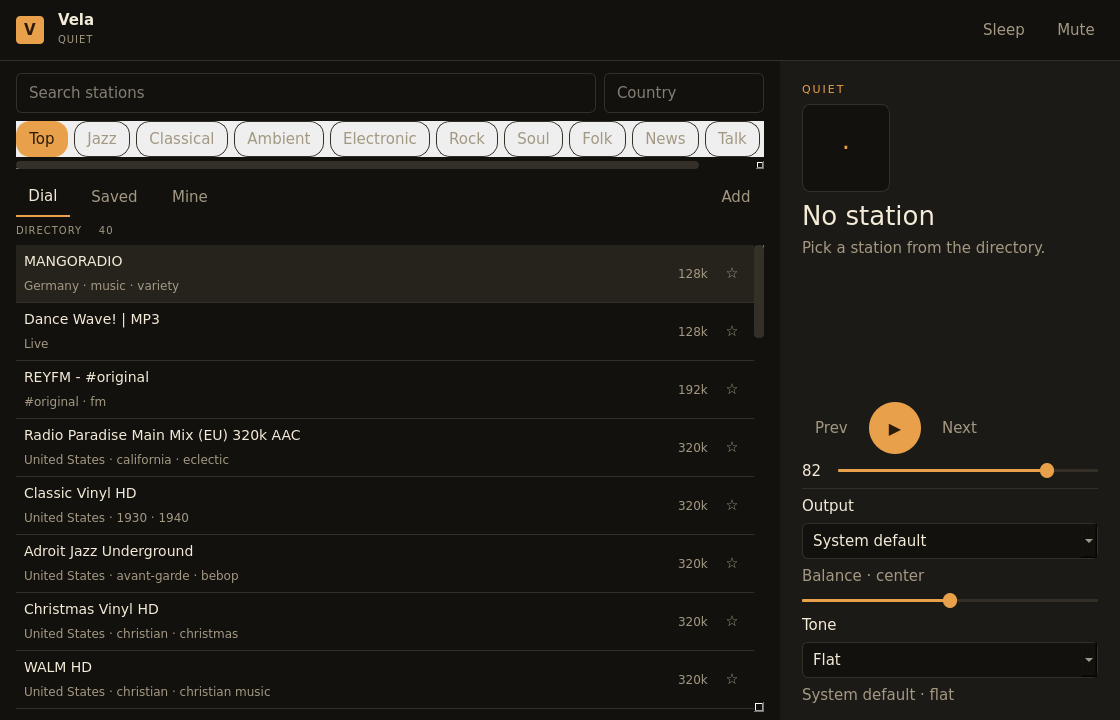
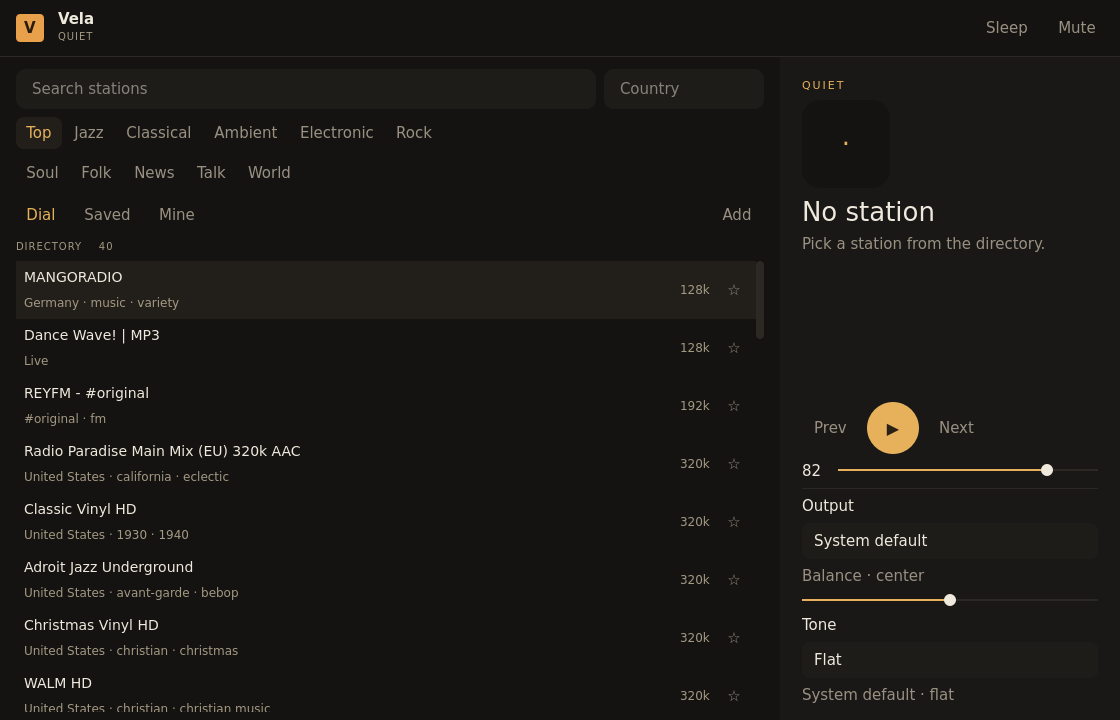
Quiet the station filters so the window stays one dark surface.

diff --git a/linux/vela/gui.py b/linux/vela/gui.py
@@ -27,55 +27,66 @@ EQS = (("flat", "Flat"), ("voice", "Voice"), ("night", "Night"), ("bass", "Bass"
 SLEEP = (0, 15, 30, 45, 60, 90)
 
 QSS = """
-QMainWindow, QWidget#app { background: #12110e; color: #f3ead7; }
-QWidget#stage { background: #1c1a16; }
-QLabel, QListWidget, QScrollArea { background: transparent; color: #f3ead7; }
-QFrame#line { background: #343027; max-height: 1px; min-height: 1px; border: none; }
+QMainWindow, QWidget#app { background: #141311; color: #efe8dc; }
+QWidget#stage { background: #191816; }
+QLabel, QListWidget { background: transparent; color: #efe8dc; }
+QFrame#line { background: #2c2924; max-height: 1px; min-height: 1px; border: none; }
 QLineEdit {
-  background: #12110e; color: #f3ead7; border: 1px solid #343027;
-  border-radius: 6px; padding: 8px 10px; min-height: 22px;
-  selection-background-color: #e8a04a; selection-color: #2a1c0a;
+  background: #1e1c19; color: #efe8dc; border: none; border-radius: 10px;
+  padding: 10px 14px; min-height: 20px;
+  selection-background-color: #3a342c; selection-color: #efe8dc;
 }
-QLineEdit:focus { border-color: #e8a04a; }
+QLineEdit:focus { background: #24211d; }
 QListWidget { border: none; outline: none; }
-QListWidget::item { border-bottom: 1px solid #343027; }
-QListWidget::item:selected { background: #26231d; }
+QListWidget::item { border: none; }
+QListWidget::item:selected { background: #221f1b; }
 QPushButton {
-  background: transparent; color: #a39882; border: 1px solid transparent;
-  border-radius: 6px; padding: 8px 12px; min-height: 22px;
+  background: transparent; color: #9a9082; border: none;
+  border-radius: 8px; padding: 8px 12px; min-height: 20px;
 }
-QPushButton:hover { color: #f3ead7; background: #26231d; }
-QPushButton:checked { color: #2a1c0a; background: #e8a04a; border-color: #e8a04a; }
-QPushButton#ghost:checked { color: #f3ead7; background: transparent; border: none; border-bottom: 2px solid #e8a04a; border-radius: 0; }
+QPushButton:hover { color: #efe8dc; background: #221f1b; }
+QPushButton:checked { color: #efe8dc; background: transparent; }
+QPushButton#ghost { padding: 8px 10px; }
+QPushButton#ghost:checked { color: #e6b15a; background: transparent; }
 QPushButton#play {
-  background: #e8a04a; color: #2a1c0a; border: none; border-radius: 26px;
+  background: #e6b15a; color: #2a2114; border: none; border-radius: 26px;
   min-width: 52px; max-width: 52px; min-height: 52px; max-height: 52px;
   font-size: 16px; padding: 0;
 }
-QPushButton#play:hover { background: #f0b15f; color: #2a1c0a; }
-QPushButton#chip { border: 1px solid #343027; border-radius: 14px; padding: 6px 12px; }
-QPushButton#chip:checked { border-color: #e8a04a; }
+QPushButton#play:hover { background: #efc27a; color: #2a2114; }
+QPushButton#chip {
+  background: transparent; color: #9a9082; border: none; border-radius: 8px;
+  padding: 6px 10px;
+}
+QPushButton#chip:hover { color: #efe8dc; background: #221f1b; }
+QPushButton#chip:checked { color: #e6b15a; background: #221f1b; }
 QComboBox {
-  background: #12110e; border: 1px solid #343027; border-radius: 6px;
-  padding: 6px 10px; min-height: 22px; color: #f3ead7;
+  background: #1e1c19; border: none; border-radius: 8px;
+  padding: 8px 12px; min-height: 20px; color: #efe8dc;
 }
-QComboBox QAbstractItemView { background: #1c1a16; color: #f3ead7; selection-background-color: #26231d; }
-QSlider::groove:horizontal { height: 3px; background: #343027; border-radius: 1px; }
-QSlider::sub-page:horizontal { background: #e8a04a; border-radius: 1px; }
+QComboBox::drop-down { border: none; width: 22px; }
+QComboBox QAbstractItemView {
+  background: #1e1c19; color: #efe8dc; border: none;
+  selection-background-color: #2a261f; outline: none;
+}
+QSlider::groove:horizontal { height: 2px; background: #2c2924; border: none; }
+QSlider::sub-page:horizontal { background: #e6b15a; }
 QSlider::handle:horizontal {
-  background: #e8a04a; border: none; width: 14px; height: 14px; margin: -6px 0; border-radius: 7px;
+  background: #efe8dc; border: none; width: 12px; height: 12px; margin: -5px 0; border-radius: 6px;
 }
-QLabel#eyebrow { color: #e8a04a; font-size: 11px; letter-spacing: 2px; }
-QLabel#title { font-size: 26px; }
-QLabel#muted, QLabel#meta { color: #a39882; }
+QLabel#eyebrow { color: #e6b15a; font-size: 11px; letter-spacing: 2px; }
+QLabel#title { font-size: 26px; font-weight: 500; }
+QLabel#muted, QLabel#meta { color: #9a9082; }
 QLabel#mark {
-  background: #12110e; color: #e8a04a; border: 1px solid #343027; border-radius: 8px; font-size: 26px;
+  background: #141311; color: #e6b15a; border: none; border-radius: 18px; font-size: 26px;
 }
-QLabel#mark[live="true"] { border-color: #e8a04a; }
-QScrollBar:vertical { background: transparent; width: 10px; }
-QScrollBar::handle:vertical { background: #343027; border-radius: 4px; min-height: 24px; }
-QScrollBar:horizontal { background: transparent; height: 8px; }
-QScrollBar::handle:horizontal { background: #343027; border-radius: 4px; }
+QScrollBar:vertical { background: transparent; width: 8px; margin: 0; }
+QScrollBar::handle:vertical { background: #2c2924; border-radius: 4px; min-height: 24px; }
+QScrollBar:horizontal { background: transparent; height: 8px; margin: 0; }
+QScrollBar::handle:horizontal { background: #2c2924; border-radius: 4px; min-width: 24px; }
+QScrollBar::add-line, QScrollBar::sub-line, QScrollBar::add-page, QScrollBar::sub-page, QScrollBar::corner {
+  background: transparent; border: none; width: 0; height: 0;
+}
 """
 
 
@@ -123,7 +134,7 @@ def main(argv=None):
     argv = list(sys.argv if argv is None else argv)
     try:
         from PySide6.QtCore import Qt, QTimer, QObject, Signal, QSize
-        from PySide6.QtGui import QFont, QKeyEvent
+        from PySide6.QtGui import QColor, QFont, QKeyEvent, QPalette
         from PySide6.QtWidgets import (
             QApplication,
             QButtonGroup,
@@ -137,8 +148,6 @@ def main(argv=None):
             QListWidgetItem,
             QMainWindow,
             QPushButton,
-            QScrollArea,
-            QSizePolicy,
             QSlider,
             QVBoxLayout,
             QWidget,
@@ -253,30 +262,24 @@ def main(argv=None):
             filters.addWidget(self.country_box)
             left_box.addLayout(filters)
 
-            host = QWidget()
-            genre_row = QHBoxLayout(host)
-            genre_row.setContentsMargins(0, 0, 0, 0)
-            genre_row.setSpacing(6)
             self.genre_group = QButtonGroup(self)
             self.genre_group.setExclusive(True)
-            for genre_id, label in GENRES:
-                button = QPushButton(label)
-                button.setObjectName("chip")
-                button.setCheckable(True)
-                button.setChecked(genre_id == "")
-                button.setSizePolicy(QSizePolicy.Fixed, QSizePolicy.Fixed)
-                button.clicked.connect(lambda _=False, gid=genre_id: self.on_tag(gid))
-                self.genre_group.addButton(button)
-                genre_row.addWidget(button)
-            genre_row.addStretch(1)
-            genres = QScrollArea()
-            genres.setWidget(host)
-            genres.setWidgetResizable(False)
-            genres.setFixedHeight(48)
-            genres.setHorizontalScrollBarPolicy(Qt.ScrollBarAsNeeded)
-            genres.setVerticalScrollBarPolicy(Qt.ScrollBarAlwaysOff)
-            genres.setFrameShape(QFrame.NoFrame)
-            left_box.addWidget(genres)
+            for chunk in (GENRES[:6], GENRES[6:]):
+                genre_row = QHBoxLayout()
+                genre_row.setContentsMargins(0, 0, 0, 0)
+                genre_row.setSpacing(2)
+                for genre_id, label in chunk:
+                    button = QPushButton(label)
+                    button.setObjectName("chip")
+                    button.setFlat(True)
+                    button.setCursor(Qt.PointingHandCursor)
+                    button.setCheckable(True)
+                    button.setChecked(genre_id == "")
+                    button.clicked.connect(lambda _=False, gid=genre_id: self.on_tag(gid))
+                    self.genre_group.addButton(button)
+                    genre_row.addWidget(button)
+                genre_row.addStretch(1)
+                left_box.addLayout(genre_row)
 
             scopes = QHBoxLayout()
             self.scope_group = QButtonGroup(self)
@@ -285,6 +288,8 @@ def main(argv=None):
             for key, label in (("dial", "Dial"), ("saved", "Saved"), ("mine", "Mine")):
                 button = QPushButton(label)
                 button.setObjectName("ghost")
+                button.setFlat(True)
+                button.setCursor(Qt.PointingHandCursor)
                 button.setCheckable(True)
                 button.setChecked(key == "dial")
                 button.clicked.connect(lambda _=False, k=key: self.on_scope(k))
@@ -881,6 +886,18 @@ def main(argv=None):
     app.setApplicationName("Vela")
     app.setStyle("Fusion")
     app.setFont(QFont("Sans Serif", 11))
+    ink = QPalette()
+    ink.setColor(QPalette.Window, QColor("#141311"))
+    ink.setColor(QPalette.WindowText, QColor("#efe8dc"))
+    ink.setColor(QPalette.Base, QColor("#1e1c19"))
+    ink.setColor(QPalette.AlternateBase, QColor("#191816"))
+    ink.setColor(QPalette.Text, QColor("#efe8dc"))
+    ink.setColor(QPalette.Button, QColor("#1e1c19"))
+    ink.setColor(QPalette.ButtonText, QColor("#efe8dc"))
+    ink.setColor(QPalette.Highlight, QColor("#2a261f"))
+    ink.setColor(QPalette.HighlightedText, QColor("#efe8dc"))
+    ink.setColor(QPalette.PlaceholderText, QColor("#7c7468"))
+    app.setPalette(ink)
     app.setStyleSheet(QSS)
     window = Window()
     window.show()
